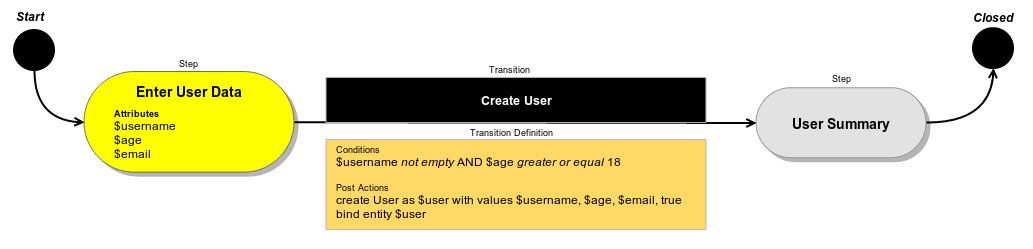
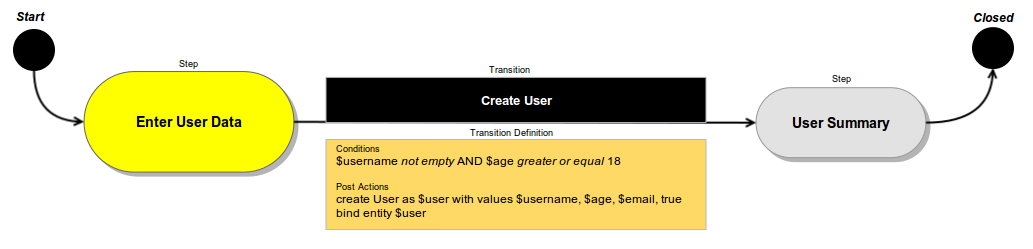
BAP-2902: Update documentation  - updated "Getting started" article

diff --git a/Resources/doc/reference/getting-started.md b/Resources/doc/reference/getting-started.md
@@ -16,26 +16,26 @@ What is Workflow?
 
 Workflow is a complex solution that allows user to perform set of actions with predefined conditions - each next action
 depends on previous. Also Workflow can be described as some kind of wizard that helps user to perform complex actions.
-Usually Workflow is used to manage some specific entity and to create additional related entities.
+Usually Workflow is used to manage some specific entity and to create additional entities.
 
 Main Entities
 =============
 
 Workflow consists of several related entities.
 
-* **Step** - entity that shows current state of Workflow. It can have form, attributes to display, allowed transitions
-that will be rendered as a buttons when step is displayed, name, label and template and some other additional
-parameters.
+* **Step** - entity that shows current status of Workflow. Before rendering each transitions checked
+is it allowed for current Workflow Item. Contains name, label and list of allowed transitions.
 
-* **Attribute** - entity that represent a value in Workflow Item. Attribute consists of name, label, attribute type
-(string, object, entity etc.) and additional options depending on type (for example "class" when type is "object").
+* **Attribute** - entity that represent one value in Workflow Item, used to render field value on a step form.
+Attribute knows about its type (string, object, entity etc.) and additional options.
+Contains name and label as additional parameters.
 
 * **Transition** - action that change current step of Workflow Item (i.e. moves it from one step to another). Transition
 is allowed if it's Conditions are satisfied. Before Transition performed Init Actions are executed and after
 transition performed - Post Actions are executed. Transition can be used as a start transition - it means that this
 transition will start Workflow and create new instance of Workflow Item. Transition optionally could have a form. In
 this case this form will be showed to user when Transition button is clicked. Transition contains name, label and some
-additional options.
+additional options. Optionally can contain form with list of attributes.
 
 * **Condition** - defines whether specific Transition is allowed with specified input data. Conditions can be nested.
 
@@ -121,35 +121,17 @@ new user.
 workflows:
     create_user:                             # name of the workflow
         label: 'Create User Workflow'        # workflow label
+        entity: Acme\Bundle\DemoBundle\Entity\UserManager    # workflow related entity
         start_step: create_user_form         # step that will be shown first
         enabled: true                        # is this workflow enabled, default true
-        type: wizard                         # type of workflow (entity|wizard), default entity
         steps:                               # list of all existing steps in workflow
             user_form:                       # step where user should fill form with personal information
                 label: 'Enter User Data'                               # step label
-                template: AcmeDemoBundle:User:userForm.html.twig       # step template, default is OroWorkflowBundle:WorkflowStep:edit
-                form_options:                # options of form type for rendering attributes
-                    attribute_fields:
-                        username:            # field for username attribute
-                            form_type: text
-                            options:         # options of form type
-                                required: true
-                                max_length: 20
-                        age:                 # field for age attribute
-                            form_type: integer
-                            options:
-                                required: true
-                        email:               # field for email attribute
-                            form_type: email
-                            options:
-                                required: false
-                                label: User Email # custom label, override attribute label
                 allowed_transitions:         # list of allowed transition from this step
                     - create_user            # user can be created from this step
             user_summary:                    # step where user can review entered data
-                label: 'User Summary'                                  # step label
-                template: AcmeDemoBundle:User:userSummary.html.twig    # custom step template
-                is_final: true                                         # this step is final
+                label: 'User Summary'        # step label
+                is_final: true               # this step is final
         attributes:                          # list of all existing attributes in workflow
             username:                        # username attribute
                 label: 'Username'            # attribute label
@@ -165,7 +147,6 @@ workflows:
                 label: 'User'
                 options:                     # attribute options
                     class: Acme\Bundle\DemoBundle\Entity\User    # entity class name
-                    bind: true               # make possible to find bound Workflow Items by entity
         transitions:                         # list of all existing transitions in workflow
             create_user:                     # transition from step "user_form" to "user_summary"
                 label: 'Create User'                             # transition label
